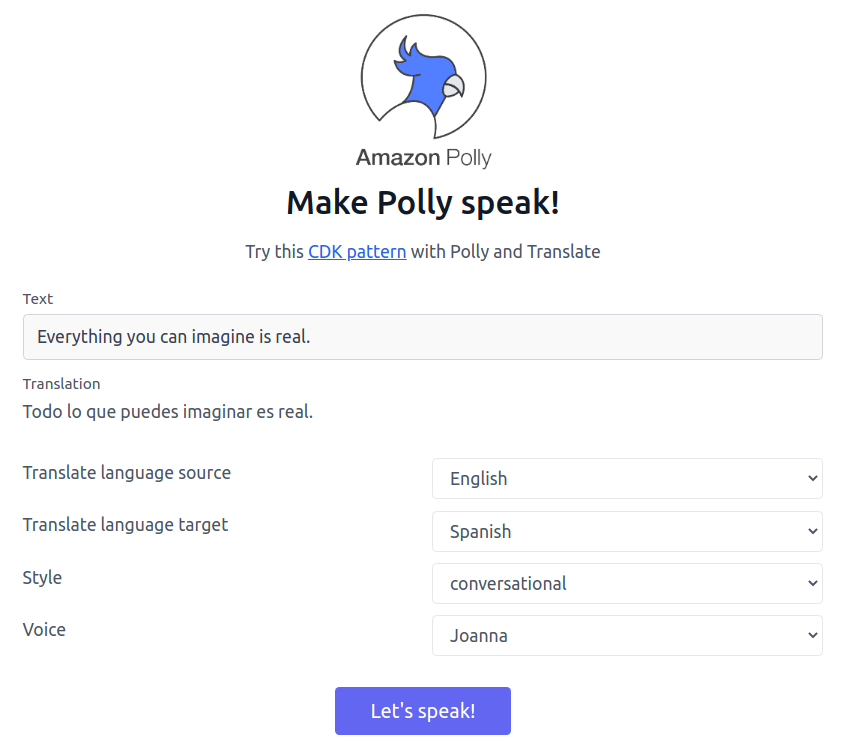
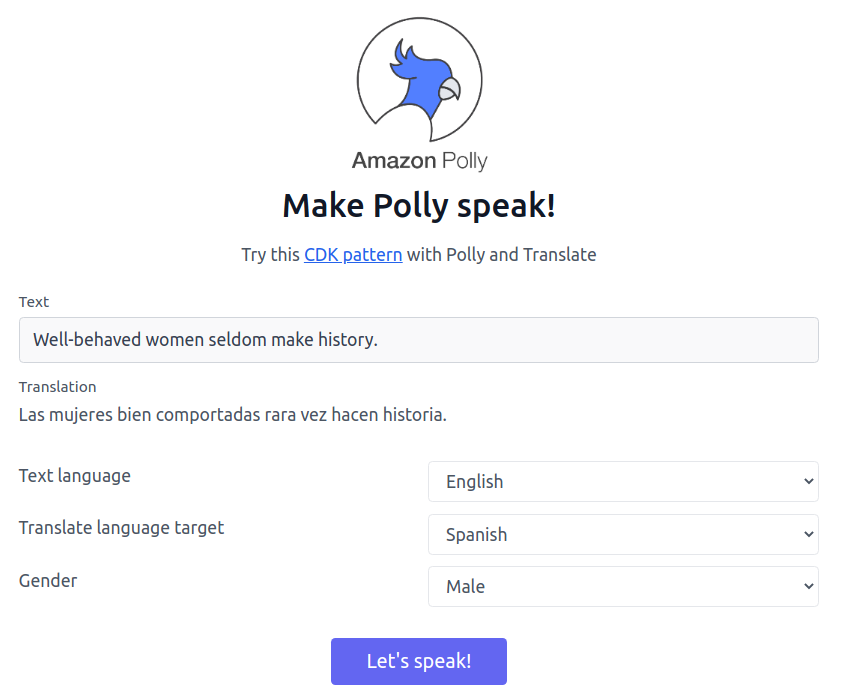
feat(polly): pick-up stage name from .env file; voice options are text language, target language and gender; doc

diff --git a/polly/react-app/src/App.tsx b/polly/react-app/src/App.tsx
@@ -2,26 +2,21 @@ import React, {ChangeEvent, useEffect, useState} from 'react';
 import './App.css';
 import quotes from './scripts/best100-array.json';
 import polly from './polly.png';
-
-type Styles = 'conversational' | 'news';
+import config from './config';
 
 function App() {
 
-  const voicesAlways = ['Joanna', 'Matthew'];
-  const voicesOnlyNews = ['Lupe', 'Amy'];
   const [text, setText] = useState(quotes[Math.floor(Math.random()*100)]);
-  const [translateSource, setTranslateSource] = useState('en');
+  const [textLanguage, setTextLanguage] = useState('en');
   const [translateTarget, setTranslateTarget] = useState('es');
-  const [style, setStyle] = useState('conversational');
-  const [possibleVoices, setPossibleVoices] = useState(voicesAlways);
-  const [voice, setVoice] = useState(voicesAlways[0]);
   const [fetching, setFetching] = useState(false);
   const [translated, setTranslated] = useState('');
   const [noTranslation, setNoTranslation] = useState(false);
+  const [gender, setGender] = useState('male');
 
   function speak() {
     setFetching(true);
-    fetch(`https://df6hqbn7dh.execute-api.us-east-1.amazonaws.com/prod?translateFrom=${translateSource}&translateTo=${translateTarget}&style=${style}&voice=${voice}`,
+    fetch(`${config.API}?textLanguage=${textLanguage}&translateTo=${translateTarget}&gender=${gender}`,
       {
         method: 'POST',
         body: JSON.stringify({text}),
@@ -39,29 +34,12 @@ function App() {
       });
   }
 
-  function settingStyle(style:Styles) {
-    switch (style) {
-      case 'conversational':
-        setPossibleVoices(voicesAlways);
-        if (voicesOnlyNews.includes(voice)) {
-          setVoice(voicesAlways[0]);
-        }
-        break;
-      case 'news':
-        setPossibleVoices(voicesAlways.concat(voicesOnlyNews));
-        break;
-      default:
-        console.error(`Unrecognized style: ${style}`);
-    }
-    setStyle(style);
-  }
-
   useEffect(() => {
     setTranslated('');
   }, [text]);
 
   function onChangeSource(event:ChangeEvent<HTMLSelectElement>){
-    setTranslateSource(event.target.value);
+    setTextLanguage(event.target.value);
     setTranslated('');
   }
 
@@ -71,16 +49,15 @@ function App() {
   }
 
   useEffect(() => {
-    if (translateSource === translateTarget) {
+    if (textLanguage === translateTarget) {
       setNoTranslation(true);
     } else {
       setNoTranslation(false);
     }
-  }, [translateTarget, translateSource]);
+  }, [translateTarget, textLanguage]);
 
   const textClasses = 'flex lg:w-2/3 w-full sm:flex-row flex-col mx-auto px-8 sm:space-x-4 sm:space-y-0 space-y-4 sm:px-0 items-end';
   const configClasses = 'flex flex-col items-end lg:w-2/3 mx-auto px-8 sm:flex-row sm:px-0 sm:space-x-4 sm:space-y-0 space-y-4 w-full';
-  const noTranslationClasses = 'line-through text-gray-400';
 
   return (
     <div className="App">
@@ -113,15 +90,15 @@ function App() {
           </div>
 
           <div
-            className={`${configClasses} ${noTranslation? noTranslationClasses: ''}`}>
+            className={configClasses}>
             <div className="w-full flex py-3">
-              <span>Translate language source</span>
+              <span>Text language</span>
             </div>
             <div className="w-full">
               <select
-                value={translateSource}
+                value={textLanguage}
                 onChange={onChangeSource}
-                className={`w-full border bg-white rounded px-3 py-2 outline-none ${noTranslation? noTranslationClasses: ''}`}
+                className={`w-full border bg-white rounded px-3 py-2 outline-none`}
               >
                 <option value='en'>
                   English
@@ -137,7 +114,7 @@ function App() {
           </div>
 
           <div
-            className={`${configClasses} ${noTranslation? noTranslationClasses: ''}`}>
+            className={`${configClasses} ${noTranslation? 'text-gray-400': ''}`}>
             <div className="w-full flex py-3">
               <span>Translate language target</span>
             </div>
@@ -145,7 +122,7 @@ function App() {
               <select
                 value={translateTarget}
                 onChange={onChangeTarget}
-                className={`w-full border bg-white rounded px-3 py-2 outline-none ${noTranslation? noTranslationClasses: ''}`}
+                className={`w-full border bg-white rounded px-3 py-2 outline-none ${noTranslation? 'text-gray-400': ''}`}
               >
                 <option value='en'>
                   English
@@ -163,50 +140,23 @@ function App() {
           <div
             className={configClasses}>
             <div className="w-full flex py-3">
-              <span>Style</span>
+              <span>Gender</span>
             </div>
             <div className="w-full">
               <select
-                value={style}
-                onChange={(event) => {
-                  settingStyle(event.target.value as Styles)
-                }}
-                className="w-full border bg-white rounded px-3 py-2 outline-none"
+                value={gender}
+                onChange={event => setGender(event.target.value)}
+                className={`w-full border bg-white rounded px-3 py-2 outline-none`}
               >
-                <option value='conversational'>
-                  conversational
+                <option value='male'>
+                  Male
                 </option>
-                <option value='news'>
-                  news
+                <option value='female'>
+                  Female
                 </option>
               </select>
             </div>
           </div>
-
-
-          <div
-            className={configClasses}>
-            <div className="w-full flex py-3">
-              <span>Voice</span>
-            </div>
-            <div className="w-full">
-              <select
-                value={voice}
-                onChange={(event) => {
-                  console.log('event', event);
-                  setVoice(event.target.value)
-                }}
-                className="w-full border bg-white rounded px-3 py-2 outline-none"
-              >
-
-                {possibleVoices.map(voice =>
-                  <option key={voice} value={voice}>{voice}</option>
-                )}
-
-              </select>
-            </div>
-          </div>
-
 
           <div
             className={`${configClasses} py-3`}>

diff --git a/polly/lambda-fns/polly.ts b/polly/lambda-fns/polly.ts
@@ -13,34 +13,19 @@ exports.handler = async function(event:any) {
   console.log('text after try-catch', text);
 
   // Default voices, style and translation
-  let voice = event?.queryStringParameters?.voice ?? "Matthew";
-  let style = event?.queryStringParameters?.style ?? "conversational";
-  let translateFrom = event?.queryStringParameters?.translateFrom ?? "en";
-  let translateTo = event?.queryStringParameters?.translateTo ?? "en";
-
-
-  // Depending on the language and style combination, some voices are supported, check it out in your project
-  let validVoices = ['Joanna', 'Matthew'];
-  if (style === "news") validVoices.push('Lupe', 'Amy');
-  const msg = `Valid voices for style ${style}: ${validVoices.join(', ')}`
-  console.log(msg)
-
-  if(!validVoices.includes(voice)){
-    return {
-      statusCode: 400,
-      body: msg
-    }
-  }
+  let textLanguage = event?.queryStringParameters?.translateFrom ?? "en";
+  let targetLanguage = event?.queryStringParameters?.translateTo ?? textLanguage;
+  let gender = event?.queryStringParameters?.gender ?? "male";
 
   // If we passed in a translation language, use translate to do the translation
   let translated;
-  if(translateTo !== translateFrom){
+  if(textLanguage !== targetLanguage){
     const translate = new Translate();
 
     var translateParams = {
       Text: text,
-      SourceLanguageCode: translateFrom,
-      TargetLanguageCode: translateTo
+      SourceLanguageCode: textLanguage,
+      TargetLanguageCode: targetLanguage
     };
 
     let rawTranslation = await translate.translateText(translateParams).promise();
@@ -52,13 +37,45 @@ exports.handler = async function(event:any) {
 
   const polly = new Polly();
 
-  const params = {
+  const params:any = {
     OutputFormat: 'mp3',
-    Engine:'neural',
-    TextType:'ssml',
-    Text: `<speak><amazon:domain name="${style}">${text}</amazon:domain></speak>`,
-    VoiceId: voice,
+    Text: text,
   };
+  if (gender === 'male') {
+    switch (targetLanguage) {
+      case 'en':
+        params.VoiceId = 'Matthew'; // English (US) (en-US)
+        params.Engine = 'neural';
+        params.TextType = 'ssml';
+        params.Text = `<speak><amazon:domain name="conversational">${text}</amazon:domain></speak>`;
+        break;
+      case 'es':
+        params.VoiceId = 'Miguel'; // US Spanish (es-US)
+        break;
+      case 'it':
+        params.VoiceId = 'Giorgio'; // Italian (it-IT)
+        break;
+    }
+  }
+  else {
+    switch (targetLanguage) {
+      case 'en':
+        params.VoiceId = 'Joanna'; // English (US) (en-US)
+        params.Engine = 'neural';
+        params.TextType = 'ssml';
+        params.Text = `<speak><amazon:domain name="conversational">${text}</amazon:domain></speak>`;
+        break;
+      case 'es':
+        params.VoiceId = 'Lupe'; // US Spanish (es-US)
+        params.Engine = 'neural';
+        params.TextType = 'ssml';
+        params.Text = `<speak><amazon:domain name="conversational">${text}</amazon:domain></speak>`;
+        break;
+      case 'it':
+        params.VoiceId = 'Bianca'; // Italian (it-IT)
+        break;
+    }
+  }
   console.log('Text markup', params.Text);
 
   let synthesis = await polly.synthesizeSpeech(params).promise();

diff --git a/polly/bin/polly.ts b/polly/bin/polly.ts
@@ -1,7 +1,9 @@
 #!/usr/bin/env node
+require('dotenv').config({ path: __dirname+'/../.env' });
 import 'source-map-support/register';
 import * as cdk from '@aws-cdk/core';
 import { PollyStack } from '../lib/polly-stack';
 
 const app = new cdk.App();
-new PollyStack(app, 'PollyStack');
+const stage = process.env.STAGE || "dev";
+new PollyStack(app, `PollyStack-${stage}`);

diff --git a/polly/react-app/src/config.js b/polly/react-app/src/config.js
@@ -1,0 +1,17 @@
+const dev = {
+  API: process.env.REACT_APP_dev_API,
+};
+
+const prod = {
+  API: process.env.REACT_APP_prod_API,
+};
+
+const config = process.env.REACT_APP_STAGE === 'prod'
+  ? prod
+  : dev;
+
+// eslint-disable-next-line
+export default {
+  // Add common config values here
+  ...config
+};

diff --git a/polly/README.md b/polly/README.md
@@ -1,13 +1,9 @@
-I extended the original pattern adding some functionality:
-* API Gateway changed from HttpApi to RestApi to protect the endpoint setting throttling.
-* Can select voice style: news | conversational
-* Add voice Amy
+I changed API Gateway from HttpApi to RestApi to protect the endpoint setting throttling and also added a React site where you can try Polly and Translate, [check it out!](http://pollystack-prod-websitedeploywebsitebucket8c75cfa-1dde3ro6aqyc4.s3-website-us-east-1.amazonaws.com)
+<br /><br />
 
-Also added a React site where you can try Polly and Translate, [check it out!](http://pollystack-websitedeploywebsitebucket8c75cfaa-1czk0ima8nvho.s3-website-us-east-1.amazonaws.com)
-
-<a href="http://pollystack-websitedeploywebsitebucket8c75cfaa-1czk0ima8nvho.s3-website-us-east-1.amazonaws.com" align="center">
+<a href="http://pollystack-prod-websitedeploywebsitebucket8c75cfa-1dde3ro6aqyc4.s3-website-us-east-1.amazonaws.com" align="center">
   <img src="img/react-app.png" />
-</a><br />
+</a><br /><br /><br />
 
 In case you want to modify your React app remember doing:
 ```shell
